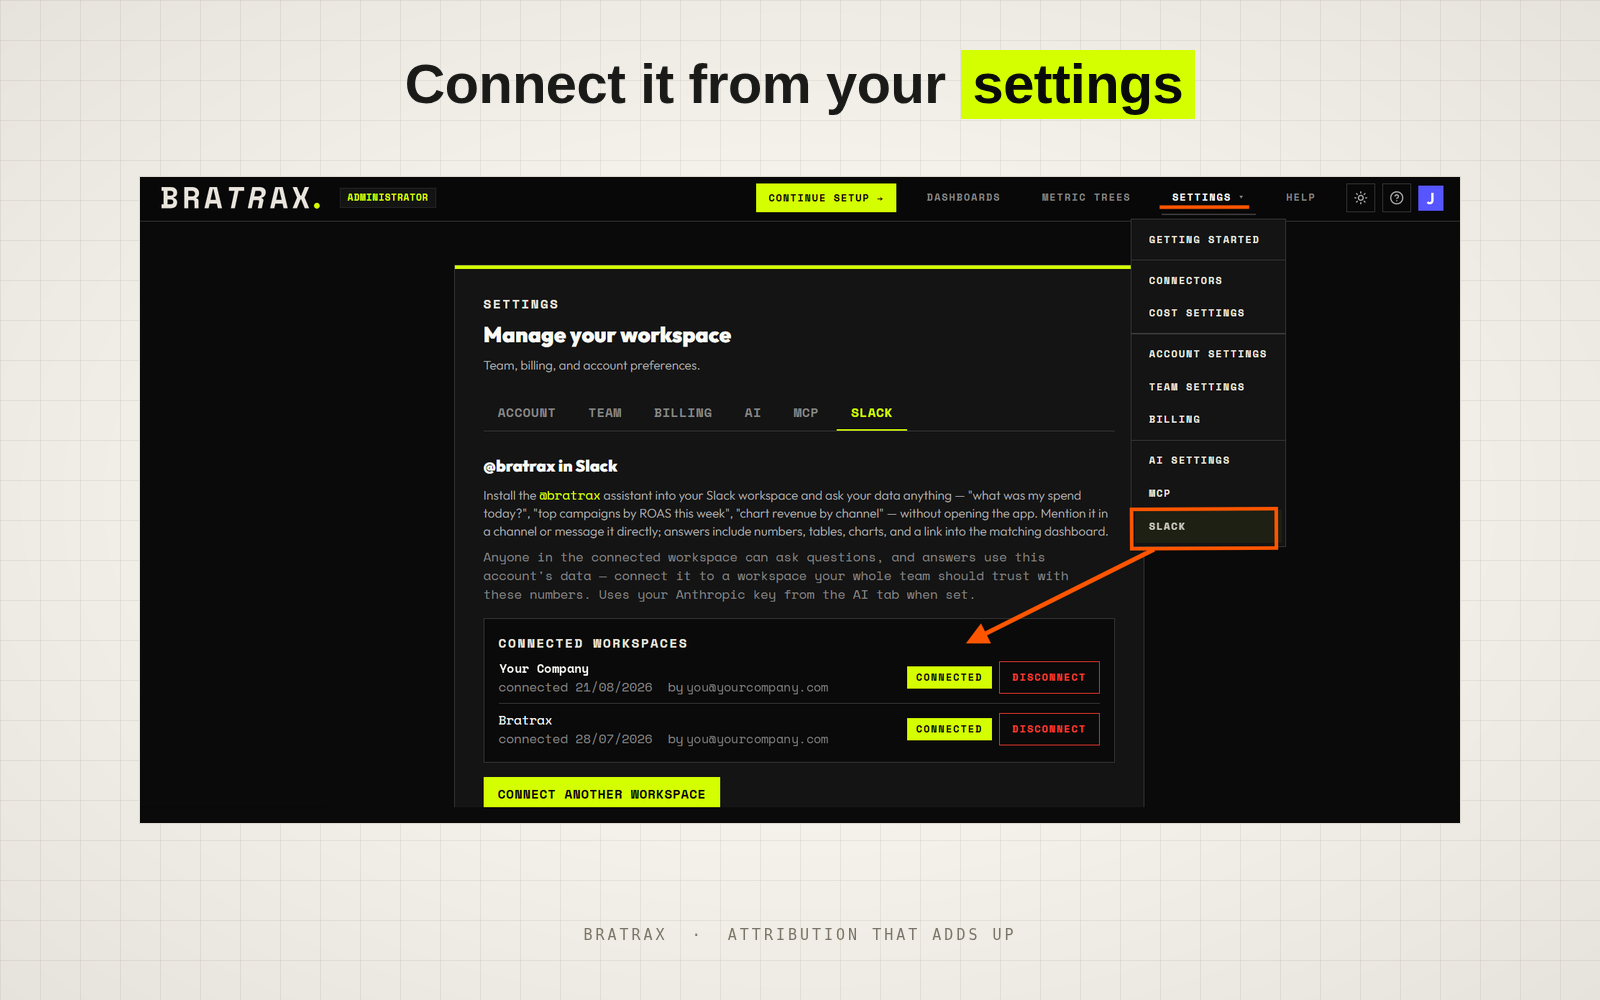
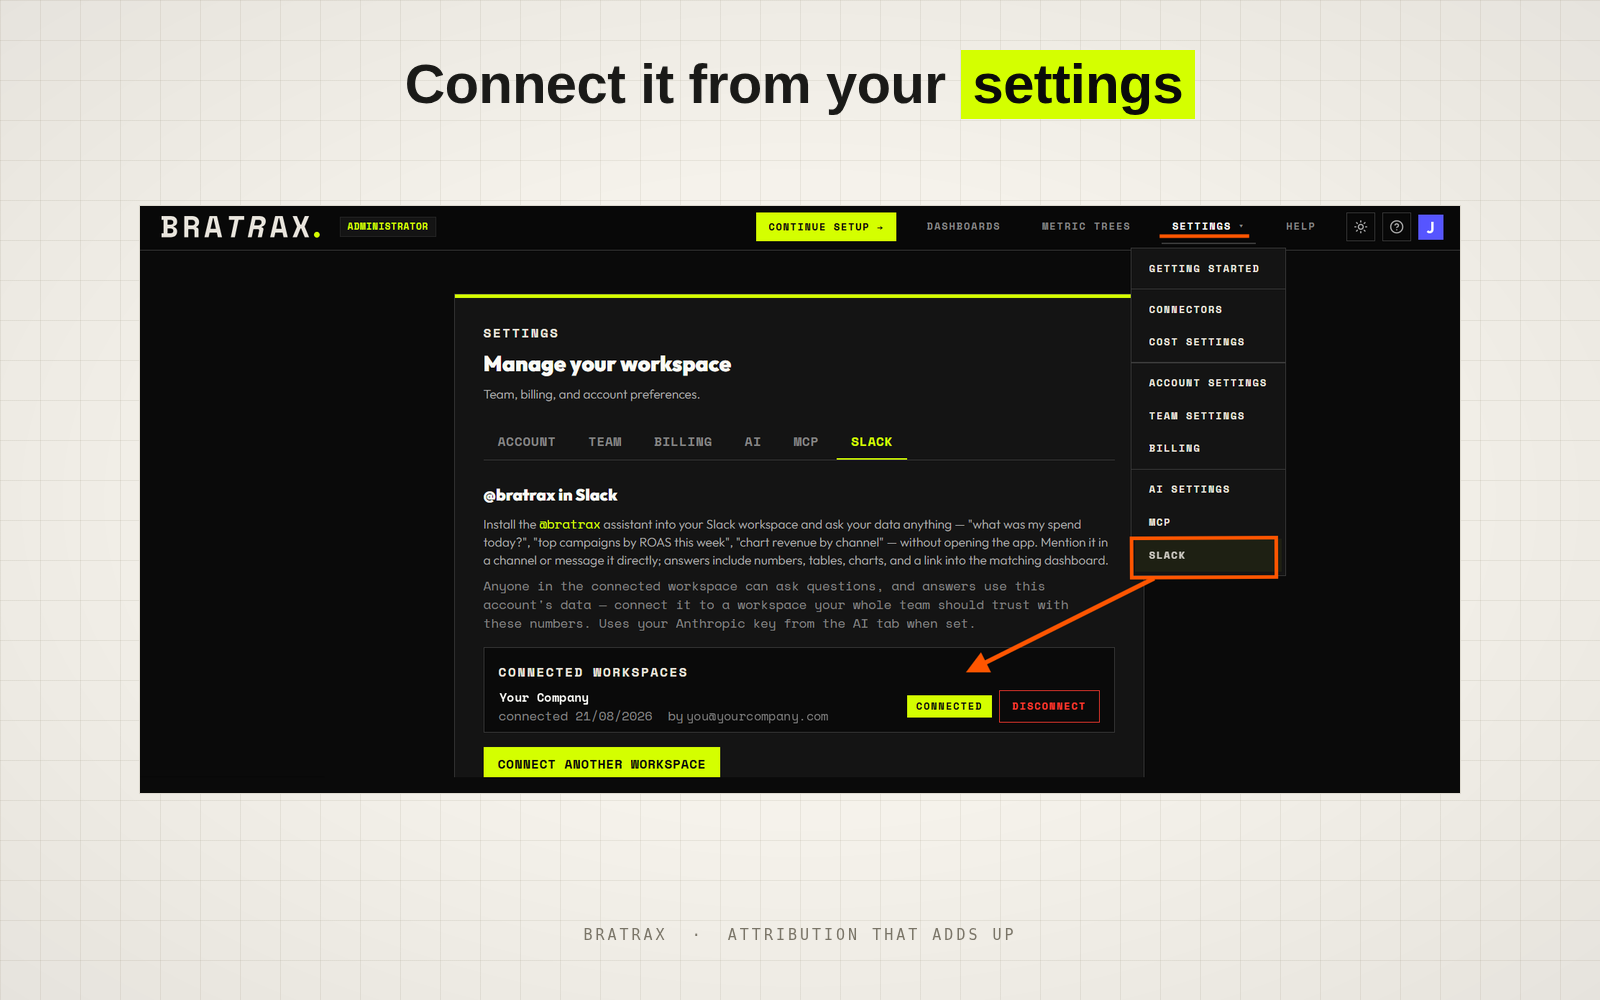
Drop the Bratrax workspace row from the settings image
A second row named "Bratrax" sitting beside the customer's own workspace reads
as Bratrax having connected itself to their Slack. That is the opposite of what
happens, and implying it in a product whose pitch is trustworthy handling of
your numbers is worse than the internal address the last commit removed.

Deleted rather than renamed to a second placeholder: one connected workspace is
the honest picture of what a customer sees after setup.

splice_out_band cuts the 82px between the list's inner divider (y=732) and the
card's bottom border (y=814) and pulls everything below up to meet it. Cutting
to the border rather than through it leaves the padding that sat above the
divider as the padding below the surviving row, so the card closes at its
natural spacing rather than looking cropped, and the seam falls on the card's
straight side borders.

Claude-Session: https://claude.ai/code/session_017fjDjqQV3fJqf7yNZmKuWz

Changed region(s): [[0.0625, 0.155, 0.9375, 0.837], [0.5312, 0.403, 0.5625, 0.465]]

diff --git a/assets/slack-listing-images/patch.py b/assets/slack-listing-images/patch.py
@@ -169,6 +169,21 @@ def bright_bbox(im: Image.Image, box, thresh: int = 90):
     return (box[0] + bb[0], box[1] + bb[1], box[0] + bb[2], box[1] + bb[3])
 
 
+def splice_out_band(im: Image.Image, y0: int, y1: int) -> Image.Image:
+    """Delete rows [y0, y1) and pull everything below up to meet the cut.
+
+    Only safe where every column crossing the band is vertically uniform — a
+    card's side borders, or flat background. Here the band is one row of a
+    bordered list, so the seam falls on straight verticals and is invisible.
+    """
+    top = im.crop((0, 0, im.width, y0))
+    bottom = im.crop((0, y1, im.width, im.height))
+    out = Image.new("RGB", (im.width, im.height - (y1 - y0)))
+    out.paste(top, (0, 0))
+    out.paste(bottom, (0, y0))
+    return out
+
+
 def brightest_ink(im: Image.Image, box) -> tuple[int, int, int]:
     """The lightest pixel in `box` — the core of a stroke.
 
@@ -308,30 +323,32 @@ if __name__ == "__main__":
             search=(1740, 0, 1832, 70), fill=(86, 85, 255),
         )
 
-    # Anonymise the connected-workspaces card in the dark capture. This one
-    # goes to customers, and it otherwise shows an internal admin address twice.
+    # Anonymise the connected-workspaces card in the dark capture. This one goes
+    # to customers, and it otherwise showed an internal admin address twice.
+    #
     # Substituted rather than blurred: a blur reads as redaction, which is a
     # strange thing to put in marketing copy, while a placeholder reads as the
     # illustration it is. "Your Company" is exactly as long as "Inceptly LLC",
     # so that line's width does not change at all.
     #
-    # The Bratrax workspace row stays as-is — that name is the brand, and
-    # showing it is the point.
+    # The Bratrax row is then deleted outright. Left in, a second workspace
+    # named "Bratrax" alongside the customer's own reads as Bratrax having
+    # connected itself to their Slack — the opposite of true, and a bad thing to
+    # imply in a product whose whole pitch is trustworthy handling of your data.
     p = shots / "shot-settings-dark.png"
     im = Image.open(p).convert("RGB")
     card_bg = im.getpixel((520, 660))                      # clear of any text
-    name_ink = brightest_ink(im, (496, 742, 580, 770))     # the "Bratrax" row
+    name_ink = brightest_ink(im, (496, 742, 580, 770))     # a workspace name
     meta_ink = brightest_ink(im, (496, 700, 700, 724))     # the muted grey
 
     replace_mono_run(im, (490, 665, 700, 700), "Inceptly LLC", "Your Company",
                      keep_prefix="", bold=True, bg=card_bg, ink=name_ink)
-    for y0, y1, date in ((695, 728, "21/08/2026"), (766, 800, "28/07/2026")):
-        replace_mono_run(
-            im, (490, y0, 1050, y1),
-            "superadmin@bratrax.com", "you@yourcompany.com",
-            keep_prefix=f"connected {date}  by ",
-            bold=False, bg=card_bg, ink=meta_ink,
-        )
+    replace_mono_run(
+        im, (490, 695, 1050, 728),
+        "superadmin@bratrax.com", "you@yourcompany.com",
+        keep_prefix="connected 21/08/2026  by ",
+        bold=False, bg=card_bg, ink=meta_ink,
+    )
     im.save(p, "PNG")
 
     # The dark capture ran on past the page and caught a half-drawn tooltip in
@@ -339,15 +356,22 @@ if __name__ == "__main__":
     # workspace" button — the actual call to action, and the reason this image
     # exists — flush against the crop, so the page background is extended back
     # underneath it instead. Only background is synthesised; no content moves.
-    p = shots / "shot-settings-dark.png"
     with Image.open(p) as im:
         w = im.width
         body = im.crop((0, 0, w, 877))
         bg = im.getpixel((60, 700))          # left margin, clear of the card
         padded = Image.new("RGB", (w, 877 + 22), bg)
         padded.paste(body, (0, 0))
-        padded.save(p, "PNG")
-    print(f"  shot-settings-dark.png: tooltip cut, background extended -> {w}x899")
+
+        # Drop the Bratrax row: the 82px band between the list's inner divider
+        # (y=732) and the card's bottom border (y=814). Cutting to the border
+        # rather than through it means the padding that sat above the divider
+        # becomes the padding below the surviving row, so the card closes up at
+        # its natural spacing instead of looking cropped.
+        spliced = splice_out_band(padded, 732, 814)
+        spliced.save(p, "PNG")
+    print(f"  shot-settings-dark.png: tooltip cut, second workspace row removed "
+          f"-> {w}x{spliced.height}")
 
     # No name or photo in the Messages-tab capture; it only needs the stray
     # half-rendered element at the bottom edge trimmed off.

diff --git a/assets/slack-listing-images/README.md b/assets/slack-listing-images/README.md
@@ -40,14 +40,20 @@ device. It also carries more of the story — the menu path *and* the destinatio
 including the acid "connect another workspace" button.
 
 The connected-workspaces card in the dark capture is anonymised: the admin
-address becomes `you@yourcompany.com` in both rows and the first workspace
-becomes `Your Company`. The **Bratrax** workspace row is left alone — that name
-is the brand, and showing it is the point.
+address becomes `you@yourcompany.com` and the workspace becomes `Your Company`.
 
 Substituted rather than blurred. A blur reads as redaction, which is an odd
 thing to put in marketing copy; a placeholder reads as the illustration it is.
 `Your Company` is exactly as long as `Inceptly LLC`, so that line's width does
 not change at all.
+
+**The second workspace row is deleted outright**, not renamed. It said
+"Bratrax", and a row named Bratrax sitting beside the customer's own workspace
+reads as Bratrax having connected *itself* to their Slack — the opposite of what
+happens, and a bad thing to imply in a product whose pitch is trustworthy
+handling of your numbers. `splice_out_band` removes the 82px between the list's
+inner divider and the card's bottom border and pulls the rest up; the seam falls
+on the card's straight side borders, so it is invisible.
 
 ## Why real captures, not rebuilt ones
 
